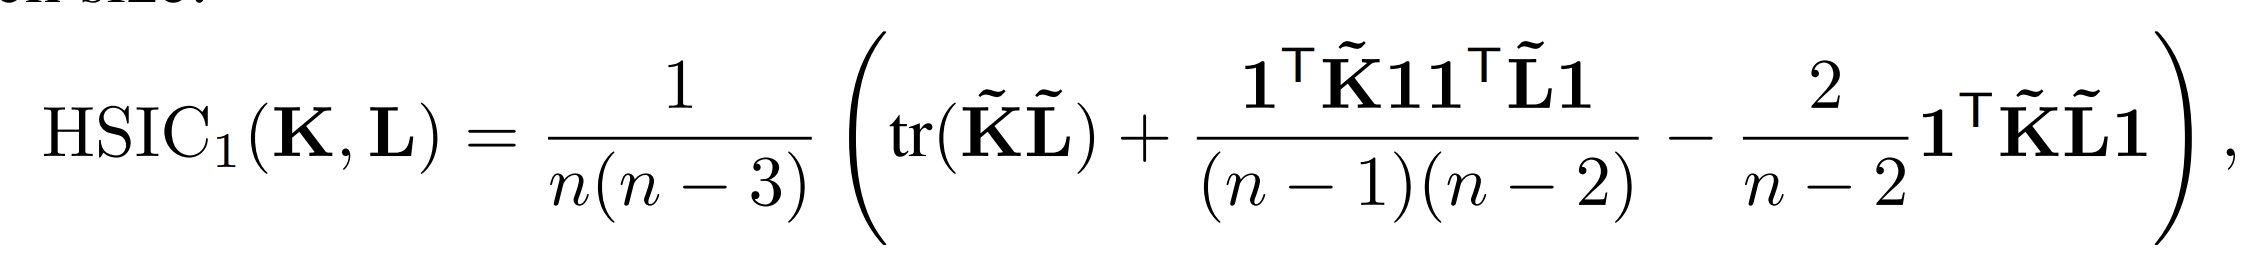
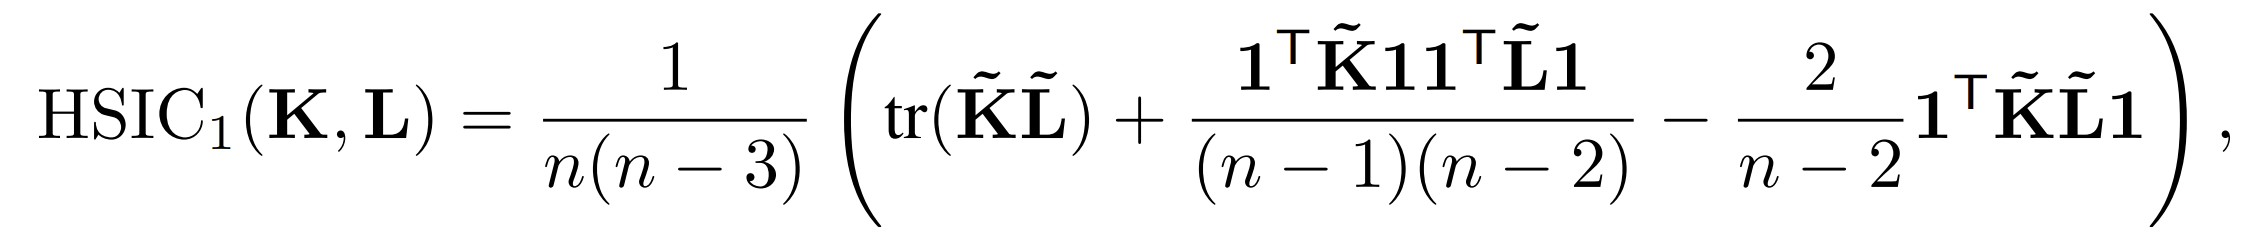
updated readme clarity

diff --git a/README.md b/README.md
@@ -5,7 +5,7 @@ A tiny package to compare two neural networks in PyTorch. There are many ways to
 ### Centered Kernel Alignment
 Centered Kernel Alignment (CKA) is a representation similarity metric that is widely used for understanding the representations learned by neural networks. Specifically, CKA takes two feature maps / representations X and Y as input and computes their normalized similarity (in terms of the Hilbert-Schmidt Independence Criterion (HSIC)) as
 
-![alt text](assets/cka.png "CKA original version")
+<img src="assets/cka.png" alt="CKA original version" width="75%">
 
 However, the above formula is not scalable against deep architectures and large datasets. Therefore, a minibatch version can be constructed that uses an unbiased estimator of the HSIC as
 
@@ -41,7 +41,8 @@ cka.compare(dataloader)
 `torch_cka` can be used with any pytorch model (subclass of `nn.Module`) and can be used with pretrained models available from popular sources like torchHub, timm, huggingface etc. Some examples of where this package can come in handy are illustrated below.
 
 ### Comparing two ResNets
-![alt text](assets/resnet_compare.png "Comparing ResNet18 and ResNet34")
+
+<img src="assets/resnet_compare.png" alt="Comparing ResNet18 and ResNet34" width="75%">
 
 ### Comparing two similar architectures
 
